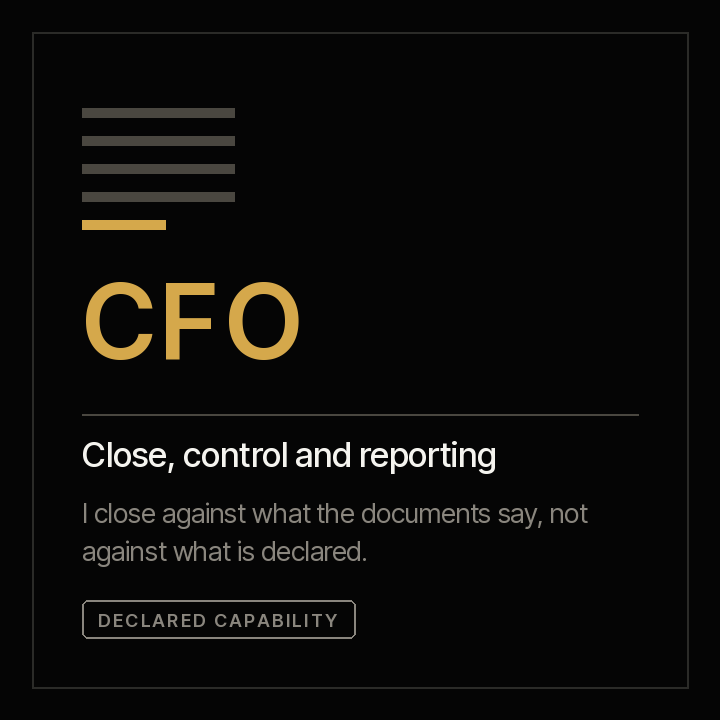
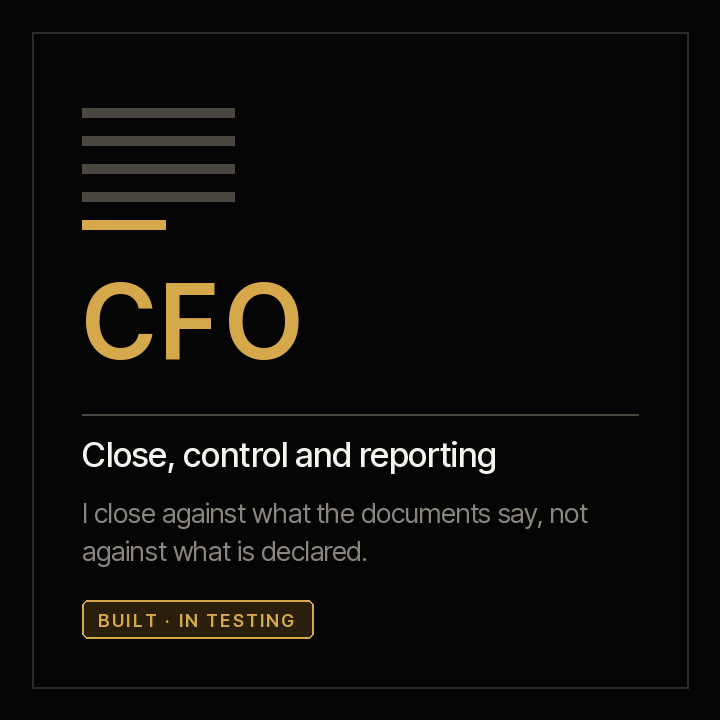
Clara y Tomás, dibujados con el mismo trazo que la familia PMO
- robots.py: los trazos de Clara (un ojo con lupa y el libro a dos columnas con la marca de
  lo que cuadra) y de Tomás (dos antenas, dos ojos iguales y las barras en pares)
- graficos.py: sus tarjetas en los dos idiomas, el emblema CFO con «construida · en prueba»
  y el trazo de cada robot en docs/img/robots/, para que el portal lo dibuje sin copiarlo
- Los README de criterio-finance y criterio-budget abren con su robot

Changed region(s): [[0.0917, 0.825, 0.4889, 0.8861]]

diff --git a/docs/img/graficos.py b/docs/img/graficos.py
@@ -132,7 +132,7 @@ T = {
     'es': {
         # ── emblemas ──
         'pmo_fn': 'Oficina de proyectos',
-        'pmo_fr': 'Leo la documentación que tu PMO ya tiene, y digo qué no se sostiene.',
+        'pmo_fr': 'Proceso la documentación que tu PMO ya tiene, y digo qué no se sostiene.',
         'cfo_fn': 'Cierre, control y reporte',
         'cfo_fr': 'Cierro contra lo que dicen los documentos, no contra lo que se declara.',
         'clo_fn': 'Contratos y cumplimiento',
@@ -142,7 +142,10 @@ T = {
         'rb': {'vera': ('Vera', 'Director de proyectos', 'Para quien responde por el portafolio completo.', 'El portafolio'),
                'samuel': ('Samuel', 'Gerente de proyecto', 'Para quien responde por un proyecto.', 'Un proyecto'),
                'alba': ('Alba', 'Gerente de producto', 'Para quien define qué se construye.', 'Un producto'),
-               'rostrum': ('Rostrum', 'El servidor', 'Donde quedan las corridas de los tres.', 'El servidor')},
+               'rostrum': ('Rostrum', 'El servidor', 'Donde quedan las corridas de los tres.', 'El servidor'),
+               'clara': ('Clara', 'Contralora', 'Para quien cierra el mes y responde por lo que dicen los libros.', 'El cierre'),
+               'tomas': ('Tomás', 'FP&A', 'Para quien pone el presupuesto al lado de lo ejecutado.', 'El presupuesto')},
+        'en_prueba': 'Construida · en prueba',
         'declarada': 'Capacidad declarada',
         'construccion': 'En construcción',
         'sin_construir': 'Sin construir',
@@ -240,17 +243,20 @@ T = {
     },
     'en': {
         'pmo_fn': 'Project management office',
-        'pmo_fr': 'I read the documentation your PMO already has, and say what does not hold.',
+        'pmo_fr': 'I process the documentation your PMO already has, and say what does not hold.',
         'cfo_fn': 'Close, control and reporting',
         'cfo_fr': 'I close against what the documents say, not against what is declared.',
         'clo_fn': 'Contracts and compliance',
         'clo_fr': 'I know what you signed, what expires, and what you committed to.',
         'disponible': 'Available',
+        'en_prueba': 'Built · in testing',
         # ── the robots ──
         'rb': {'vera': ('Vera', 'Project director', 'For whoever answers for the whole portfolio.', 'The portfolio'),
                'samuel': ('Samuel', 'Project manager', 'For whoever answers for one project.', 'One project'),
                'alba': ('Alba', 'Product manager', 'For whoever defines what gets built.', 'One product'),
-               'rostrum': ('Rostrum', 'The server', "Where the three agents' runs are kept.", 'The server')},
+               'rostrum': ('Rostrum', 'The server', "Where the three agents' runs are kept.", 'The server'),
+               'clara': ('Clara', 'Controller', 'For whoever closes the month and answers for what the books say.', 'The close'),
+               'tomas': ('Tomás', 'FP&A', 'For whoever puts the budget next to actual spend.', 'The budget')},
         'declarada': 'Declared capability',
         'construccion': 'Being built',
         'sin_construir': 'Not built',
@@ -397,7 +403,7 @@ def emblema(t, sigla, fn, fr, estado, glifo):
     for linea in lineas:
         d.text((X, y), linea, font=f(R, 27), fill=APAGADO)
         y += 38
-    insignia(d, (X, 600), estado, estado in (t['disponible'], T['en']['disponible']))
+    insignia(d, (X, 600), estado, estado in (t['disponible'], t['en_prueba']))
     return img
 
 
@@ -958,7 +964,7 @@ if __name__ == '__main__':
         print(idioma)
         guardar(emblema(t, 'PMO', t['pmo_fn'], t['pmo_fr'], t['disponible'], glifo_pmo),
                 idioma, 'pmo.png')
-        guardar(emblema(t, 'CFO', t['cfo_fn'], t['cfo_fr'], t['declarada'], glifo_cfo),
+        guardar(emblema(t, 'CFO', t['cfo_fn'], t['cfo_fr'], t['en_prueba'], glifo_cfo),
                 idioma, 'cfo.png')
         guardar(emblema(t, 'CLO', t['clo_fn'], t['clo_fr'], t['declarada'], glifo_clo),
                 idioma, 'clo.png')
@@ -970,5 +976,10 @@ if __name__ == '__main__':
         guardar(cadencia(t), idioma, 'cadencia.png')
         guardar(instalacion(t), idioma, 'instalacion.png')
         guardar(servidor(t), idioma, 'servidor.png')
-        for nombre in trazos.ORDEN:
+        for nombre in trazos.ORDEN + trazos.ORDEN_CFO:
             guardar(tarjeta(t, nombre), idioma, f'robot-{nombre}.png')
+    # El trazo de cada robot, solo, para que el portal lo dibuje sin copiarlo.
+    os.makedirs(os.path.join(AQUI, 'robots'), exist_ok=True)
+    for nombre in trazos.ORDEN + trazos.ORDEN_CFO:
+        with open(os.path.join(AQUI, 'robots', f'{nombre}.svg'), 'w', encoding='utf-8') as fh:
+            fh.write(trazos.svg(nombre, ORO, ORO) + '\n')

diff --git a/plugins/criterio-portfolio/scripts/robots.py b/plugins/criterio-portfolio/scripts/robots.py
@@ -1,10 +1,15 @@
 # -*- coding: utf-8 -*-
-"""Los cuatro de la familia, dibujados una sola vez.
+"""Los robots de Criterio, dibujados una sola vez.
 
 Vera tiene un lente grande: mira el portafolio entero. Samuel escucha —dos antenas— y
 lleva una libreta: lo que se prometió en cada reunión. Alba lleva un sol que sale: el
 producto antes de que exista el proyecto. Rostrum es un gabinete de cintas y luces: el
 servidor donde queda todo.
+
+De la familia CFO, Clara —de *clarus*, ve claro— tiene un ojo con su lupa, la que acerca el
+soporte, y en el pecho el libro a dos columnas, debe y haber, con la marca de lo que cuadra.
+Tomás, «el gemelo», tiene dos antenas y dos ojos iguales, y en el pecho las barras en pares:
+lo presupuestado al lado de lo ejecutado.
 
 Son los mismos trazos que josenanez.com usa en la página de Criterio. Aquí viven en un
 solo lugar para que el servidor los dibuje en sus páginas y `docs/img/graficos.py` los
@@ -13,7 +18,9 @@ imprima para los README: si cambia un robot, cambia en todas partes.
 from __future__ import annotations
 
 ORDEN = ("vera", "samuel", "alba", "rostrum")
-AGENTE = {"vera": "portafolio", "samuel": "proyecto", "alba": "producto", "rostrum": None}
+ORDEN_CFO = ("clara", "tomas")
+AGENTE = {"vera": "portafolio", "samuel": "proyecto", "alba": "producto", "rostrum": None,
+          "clara": "finanzas", "tomas": "presupuesto"}
 
 _PIERNAS = [("line", dict(x1=44, y1=134, x2=44, y2=158)), ("line", dict(x1=76, y1=134, x2=76, y2=158)),
             ("line", dict(x1=36, y1=160, x2=52, y2=160)), ("line", dict(x1=68, y1=160, x2=84, y2=160))]
@@ -50,6 +57,31 @@ _PIEZAS = {
         ("ln", "line", dict(x1=60, y1=96, x2=60, y2=100)), ("ln", "line", dict(x1=46, y1=102, x2=49, y2=105)),
         ("ln", "line", dict(x1=74, y1=102, x2=71, y2=105)),
         ("ln", "line", dict(x1=30, y1=98, x2=12, y2=86)), ("ln", "line", dict(x1=90, y1=98, x2=108, y2=86)),
+    ] + [("ln", t, a) for t, a in _PIERNAS],
+    "clara": [
+        ("ln", "line", dict(x1=60, y1=8, x2=60, y2=22)), ("led", "circle", dict(cx=60, cy=6, r=4)),
+        ("ln", "rect", dict(x=22, y=22, width=76, height=56, rx=6)),
+        ("ojo", "circle", dict(cx=44, cy=50, r=6)),
+        ("ln", "circle", dict(cx=74, cy=48, r=12)), ("ojo", "circle", dict(cx=74, cy=48, r=5)),
+        ("ln", "line", dict(x1=82, y1=57, x2=92, y2=68)),
+        ("ln", "rect", dict(x=30, y=84, width=60, height=50, rx=4)),
+        ("ln", "line", dict(x1=60, y1=90, x2=60, y2=128)),
+        ("ln", "line", dict(x1=36, y1=98, x2=54, y2=98)), ("ln", "line", dict(x1=36, y1=108, x2=54, y2=108)),
+        ("ln", "line", dict(x1=66, y1=98, x2=84, y2=98)), ("ln", "line", dict(x1=66, y1=108, x2=84, y2=108)),
+        ("ln", "path", dict(d="M66 120 L72 126 L84 114")),
+        ("ln", "line", dict(x1=30, y1=96, x2=12, y2=112)), ("ln", "line", dict(x1=90, y1=96, x2=108, y2=112)),
+    ] + [("ln", t, a) for t, a in _PIERNAS],
+    "tomas": [
+        ("ln", "line", dict(x1=46, y1=10, x2=46, y2=22)), ("ln", "line", dict(x1=74, y1=10, x2=74, y2=22)),
+        ("led", "circle", dict(cx=46, cy=7, r=4)), ("led", "circle", dict(cx=74, cy=7, r=4)),
+        ("ln", "rect", dict(x=22, y=22, width=76, height=56, rx=6)),
+        ("ojo", "rect", dict(x=36, y=40, width=14, height=14)), ("ojo", "rect", dict(x=70, y=40, width=14, height=14)),
+        ("ln", "line", dict(x1=48, y1=66, x2=72, y2=66)),
+        ("ln", "rect", dict(x=30, y=84, width=60, height=50, rx=4)),
+        ("ln", "line", dict(x1=38, y1=126, x2=82, y2=126)),
+        ("ln", "line", dict(x1=44, y1=126, x2=44, y2=106)), ("ln", "line", dict(x1=50, y1=126, x2=50, y2=110)),
+        ("ln", "line", dict(x1=64, y1=126, x2=64, y2=98)), ("ln", "line", dict(x1=70, y1=126, x2=70, y2=94)),
+        ("ln", "line", dict(x1=30, y1=96, x2=12, y2=112)), ("ln", "line", dict(x1=90, y1=96, x2=108, y2=112)),
     ] + [("ln", t, a) for t, a in _PIERNAS],
     "rostrum": [
         ("ln", "rect", dict(x=18, y=14, width=84, height=146, rx=3)),

diff --git a/plugins/criterio-finance/README.es.md b/plugins/criterio-finance/README.es.md
@@ -1,5 +1,7 @@
 # Clara · la contralora
 
+<img src="../../docs/img/es/robot-clara.png" alt="Clara" width="220" align="right">
+
 **Clara pone los libros al lado de sus soportes.** El cierre mensual con su checklist y su evidencia, las conciliaciones bancarias y de cuentas, cada factura electrónica de la DIAN o del SRI contra su registro, y el paquete para el auditor. Procesa todos los documentos del periodo, no una muestra, y dice qué cuadra, qué no y qué no tiene soporte.
 
 [English](README.md) · `criterio-finance` · Apache 2.0 · Una instancia por entidad

diff --git a/plugins/criterio-finance/README.md b/plugins/criterio-finance/README.md
@@ -1,5 +1,7 @@
 # Clara · the controller
 
+<img src="../../docs/img/en/robot-clara.png" alt="Clara" width="220" align="right">
+
 **Clara puts the books next to their supporting documents.** The monthly close with its checklist and evidence, bank and account reconciliations, every DIAN or SRI e-invoice against its entry, and the auditor's package. She processes every document in the period, not a sample, and says what ties out, what does not and what has no support.
 
 [Español](README.es.md) · `criterio-finance` · Apache 2.0 · One instance per entity

diff --git a/plugins/criterio-budget/README.es.md b/plugins/criterio-budget/README.es.md
@@ -1,5 +1,7 @@
 # Tomás · FP&A
 
+<img src="../../docs/img/es/robot-tomas.png" alt="Tomás" width="220" align="right">
+
 **Tomás pone el presupuesto al lado de su gemelo, la ejecución.** Lo aprobado contra lo ejecutado y lo comprometido por área y línea, la proyección al cierre del año con su supuesto escrito, cada traslado con su acta y el material del comité como paquete de decisiones.
 
 [English](README.md) · `criterio-budget` · Apache 2.0 · Una instancia por entidad

diff --git a/plugins/criterio-budget/README.md b/plugins/criterio-budget/README.md
@@ -1,5 +1,7 @@
 # Tomás · FP&A
 
+<img src="../../docs/img/en/robot-tomas.png" alt="Tomás" width="220" align="right">
+
 **Tomás puts the budget next to its twin, actual spend.** Approved against actual and committed by area and line, the year-end forecast with its stated assumption, every transfer with its approval minutes, and the committee material as a decision pack.
 
 [Español](README.es.md) · `criterio-budget` · Apache 2.0 · One instance per entity
